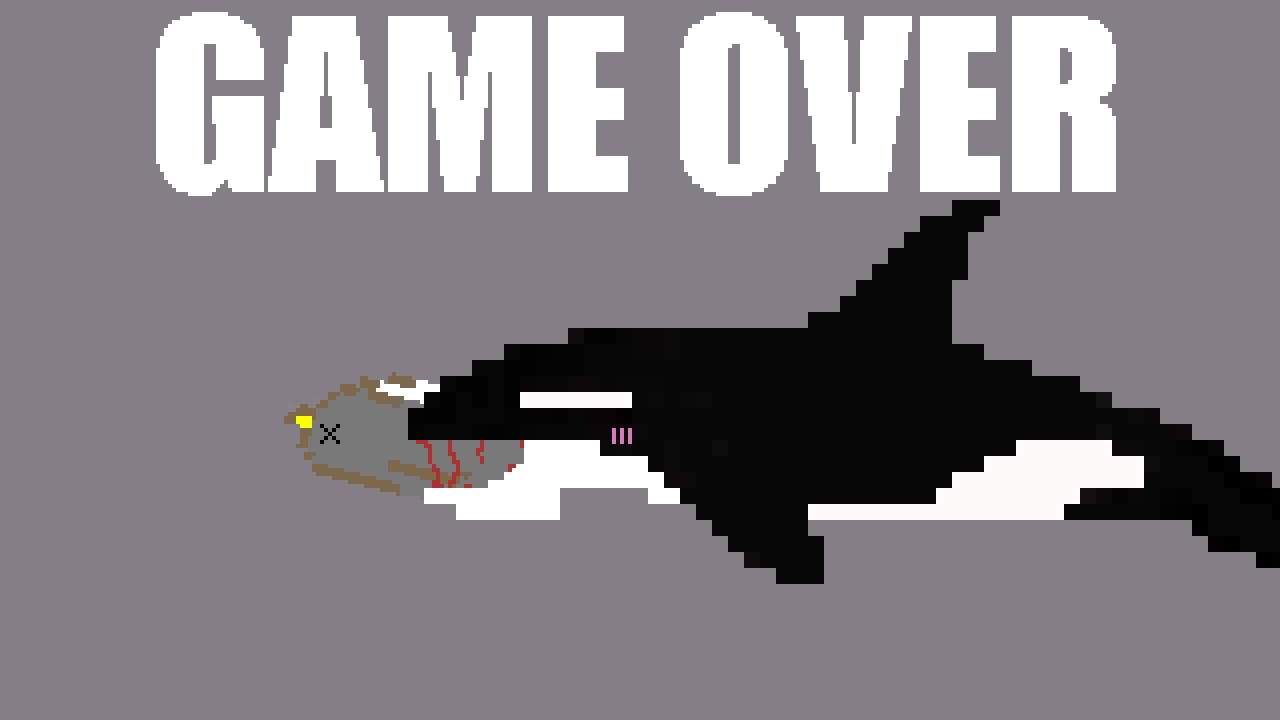
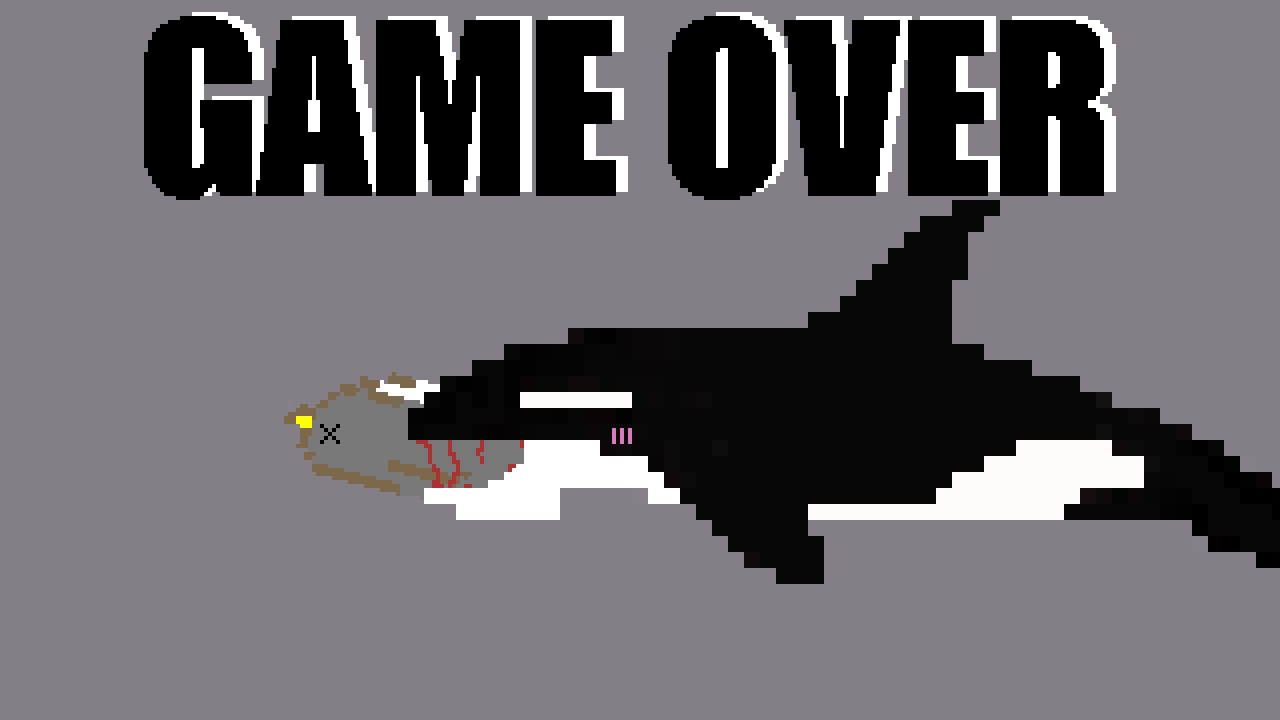
ゴールに触れた時パーティクル追加

Changed region(s): [[0.0938, 0.0, 0.875, 0.275]]

diff --git a/main.cpp b/main.cpp
@@ -74,9 +74,10 @@ int WINAPI WinMain(_In_ HINSTANCE, _In_opt_ HINSTANCE, _In_ LPSTR, _In_ int)
 
 	float savedPlayerX = 0.0f;
 	//========================================
-	// ライフと無敵時間（エネミー当たり判定用）
+	// // ライフと無敵時間（エネミー当たり判定用）
 	//========================================
 	int playerLife = 3;
+	int maxPlayerLife = 3; // ★追加：最大ライフを保持する変数
 	bool isInvincible = false;
 	int invincibleTimer = 0;
 	const int kInvincibleDuration = 120; // ダメージ後約2秒間の無敵時間
@@ -122,11 +123,11 @@ int WINAPI WinMain(_In_ HINSTANCE, _In_opt_ HINSTANCE, _In_ LPSTR, _In_ int)
 	// チュートリアル用ガイド変数
 	//==========================================
 	bool isTutorialPaused = false;
-	bool isStartGuideDone = false;       
-	bool isTrampolineGuideDone = false;  
-	int tutorialPauseType = 0;           
-	int tutorialStep = 1;                
-	bool isWaitingForPeak = false;       
+	bool isStartGuideDone = false;
+	bool isTrampolineGuideDone = false;
+	int tutorialPauseType = 0;
+	int tutorialStep = 1;
+	bool isWaitingForPeak = false;
 
 	//==========================================
 	// ジャンプ
@@ -263,6 +264,10 @@ int WINAPI WinMain(_In_ HINSTANCE, _In_opt_ HINSTANCE, _In_ LPSTR, _In_ int)
 	//ライフの画像
 	int playerLifeTexture =
 		Novice::LoadTexture("./Resources/images/life.png");
+	//壊れたライフの画像
+	int playerBrokenLifeTexture =
+		Novice::LoadTexture("./Resources/images/brokenlife.png");
+
 	//チュートリアル説明用画像
 	int tutorialTextTexture =
 		Novice::LoadTexture("./Resources/images/tutorialText.png");
@@ -638,6 +643,46 @@ int WINAPI WinMain(_In_ HINSTANCE, _In_opt_ HINSTANCE, _In_ LPSTR, _In_ int)
 					else                     particles[i].color = 0xFFFFCCFF; // キラッと光る薄黄色
 
 					particles[i].isActive = true;
+					break;
+				}
+			}
+		}
+		};
+
+	//★修正：新しい華やか＆安全な花火エフェクト処理（フリーズ対策済）
+	auto SpawnFireworks = [&](float x, float y) {
+		const int kFireworkParticles = 60; // 花火1発あたりの粒子数
+		int spawnedCount = 0;
+
+		// 空いているパーティクル枠を探して生成（無限ループを起こさない安全な単一ループ構造）
+		for (int p = 0; p < kMaxParticles; ++p) {
+			if (!particles[p].isActive) {
+				// 花火の中心位置
+				particles[p].position = { x, y };
+
+				// 360度ランダムな角度とスピードで外側へ飛び散るベクトル
+				float angle = static_cast<float>(rand()) / RAND_MAX * 6.2831853f;
+				float speed = 4.0f + static_cast<float>(rand()) / RAND_MAX * 10.0f;
+
+				particles[p].velocity = { cosf(angle) * speed, sinf(angle) * speed };
+				particles[p].timer = 0;
+				particles[p].lifeTime = 25 + rand() % 20; // 25〜45フレーム存続
+				particles[p].radius = 3.0f + static_cast<float>(rand() % 6);
+
+				// 鮮やかでランダムなカラーバリエーション
+				int colorType = rand() % 6;
+				if (colorType == 0)      particles[p].color = 0xFFD700FF; // ゴールド
+				else if (colorType == 1) particles[p].color = 0xFF1493FF; // ピンク
+				else if (colorType == 2) particles[p].color = 0x00FFFFFF; // シアン
+				else if (colorType == 3) particles[p].color = 0x32CD32FF; // ライムグリーン
+				else if (colorType == 4) particles[p].color = 0xFFFFFFFF; // ホワイト
+				else                     particles[p].color = 0xFF8C00FF; // オレンジ
+
+				particles[p].isActive = true;
+				spawnedCount++;
+
+				// 目標の粒子数（60個）を生成できたら終了
+				if (spawnedCount >= kFireworkParticles) {
 					break;
 				}
 			}
@@ -1200,6 +1245,7 @@ int WINAPI WinMain(_In_ HINSTANCE, _In_opt_ HINSTANCE, _In_ LPSTR, _In_ int)
 					if (selectedStage == 0) { // STAGE 1 (NORMAL)
 						kMoveSpeed = 10.0f;
 						playerLife = 3;
+						maxPlayerLife = 3; // ★追加
 						enemy.speed = 8.0f;
 						enemy.isActive = true;
 						octopus.isActive = false;
@@ -1207,6 +1253,7 @@ int WINAPI WinMain(_In_ HINSTANCE, _In_opt_ HINSTANCE, _In_ LPSTR, _In_ int)
 					else if (selectedStage == 1) { // STAGE 2 (HIGH SPEED)
 						kMoveSpeed = 14.0f;
 						playerLife = 3;
+						maxPlayerLife = 3; // ★追加
 						enemy.speed = 10.0f;
 						enemy.isActive = true;
 						octopus.isActive = false;
@@ -1214,13 +1261,14 @@ int WINAPI WinMain(_In_ HINSTANCE, _In_opt_ HINSTANCE, _In_ LPSTR, _In_ int)
 					else if (selectedStage == 2) { // STAGE 3 (HARD)
 						kMoveSpeed = 12.0f;
 						playerLife = 1;
+						maxPlayerLife = 1; // ★追加
 						enemy.speed = 12.0f;
 
-						// ★ステージ3限定：シャチ非表示、タコアクティブ
+						// ステージ3限定：シャチ非表示、タコアクティブ
 						enemy.isActive = false;
 						octopus.isActive = true;
 						octopus.position = { 1280.0f + 300.0f, 250.0f };
-						octopus.shakeTimer = 30; // 登場時に約0.5秒画面揺らし
+						octopus.shakeTimer = 30;
 					}
 
 					scene = CountDown;
@@ -1841,10 +1889,14 @@ int WINAPI WinMain(_In_ HINSTANCE, _In_opt_ HINSTANCE, _In_ LPSTR, _In_ int)
 
 					isGameClear = true;
 
-					// ★ ここにゴール効果音の再生処理を追加 ★
+					// ゴール効果音の再生
 					if (goalHitSound != -1) {
-						Novice::PlayAudio(goalHitSound, false, 1.0f); // 音量は好みに合わせて調整してください
+						Novice::PlayAudio(goalHitSound, false, 1.0f);
 					}
+
+					// 初回花火の打ち上げ（ゴール直後に2発）
+					SpawnFireworks(kGoalX + 50.0f, kGoalY - 100.0f);
+					SpawnFireworks(kGoalX + 150.0f, kGoalY - 150.0f);
 
 					// ゴール時に4つの星の条件を確定
 					starConditions[0] = true;
@@ -1863,6 +1915,19 @@ int WINAPI WinMain(_In_ HINSTANCE, _In_opt_ HINSTANCE, _In_ LPSTR, _In_ int)
 				if (isGameClear) {
 					goalTimer++;
 					if (goalTimer % 8 == 0 && goalFlagFrame < 3) goalFlagFrame++;
+
+					// 20フレームごとにポンポンと連続して花火を打ち上げる演出
+					if (goalTimer % 20 == 0 && goalTimer < kGoalWaitFrames - 30) {
+						float fireworkX = kGoalX + (rand() % 300 - 50);
+						float fireworkY = kGoalY - 80.0f - (rand() % 120);
+						SpawnFireworks(fireworkX, fireworkY);
+
+						// 花火の破裂音（ジャンプ音などを流用して演出感をアップ）
+						if (jumpSound != -1) {
+							Novice::PlayAudio(jumpSound, false, 0.5f);
+						}
+					}
+
 					if (goalTimer >= kGoalWaitFrames) {
 						scene = Clear;
 						clearTimer = 0;
@@ -2158,13 +2223,23 @@ int WINAPI WinMain(_In_ HINSTANCE, _In_opt_ HINSTANCE, _In_ LPSTR, _In_ int)
 				DrawCoinCount();
 
 				//==========================================
-				// ライフ描画（残数に応じて描画）
+				// ライフ描画（残数と壊れたライフを描画）
 				//==========================================
-				if (playerLifeTexture != -1) {
-					for (int i = 0; i < playerLife; i++) {
+				for (int i = 0; i < maxPlayerLife; i++) {
+					int drawTexture = -1;
+
+					// 現在のライフ以下なら通常ライフ、それ以上（減ったぶん）なら壊れたライフを表示
+					if (i < playerLife) {
+						drawTexture = playerLifeTexture;
+					}
+					else {
+						drawTexture = playerBrokenLifeTexture;
+					}
+
+					if (drawTexture != -1) {
 						Novice::DrawSprite(
 							20 + i * 60, 20,  // 描画位置
-							playerLifeTexture,
+							drawTexture,
 							0.5f, 0.5f,       // 画像の大きさ
 							0.0f, WHITE
 						);
